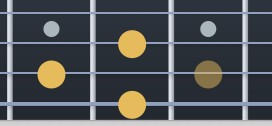
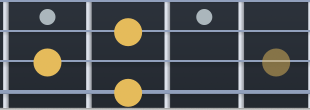
add

diff --git a/docs/chords.html b/docs/chords.html
@@ -155,6 +155,7 @@
 <li><a href="#%E4%B8%89%E5%92%8C%E5%BC%A6">三和弦</a></li>
 <li><a href="#%E5%85%AD%E5%92%8C%E5%BC%A6">六和弦</a></li>
 <li><a href="#%E6%8C%82%E7%95%99%E5%92%8C%E5%BC%A6">挂留和弦</a></li>
+<li><a href="#%E5%B0%8F%E4%B8%83%E5%92%8C%E5%BC%A6">小七和弦</a></li>
 <li><a href="#%E5%B1%9E%E4%B8%83%E5%92%8C%E5%BC%A6">属七和弦</a></li>
 <li><a href="#%E5%B0%8F%E8%B0%83%E4%B8%AD%E7%9A%84%E4%B8%83%E5%92%8C%E5%BC%A6">小调中的七和弦</a></li>
 </ul>
@@ -557,11 +558,17 @@
 </tr>
 </tbody>
 </table>
-<h4 id="属七和弦"><a class="anchorlink" href="#%E5%B1%9E%E4%B8%83%E5%92%8C%E5%BC%A6">2.4 属七和弦</a></h4>
+<h4 id="小七和弦"><a class="anchorlink" href="#%E5%B0%8F%E4%B8%83%E5%92%8C%E5%BC%A6">2.4 小七和弦</a></h4><h5 id="小七和弦-组成"><a class="anchorlink" href="#%E5%B0%8F%E4%B8%83%E5%92%8C%E5%BC%A6-%E7%BB%84%E6%88%90">2.4.1 组成</a></h5><div class="code_container">
+<pre class="brush: plain; gutter: false; toolbar: true;">
+根音 小三度 纯五度 小七度
+
+</pre>
+</div>
+<p>根音在6弦</p><p><img src="./images/Cm7-6R.png" alt="Cm7-6R"></p><p><img src="./images/Cm7-6R-1.png" alt="Cm7-6R-1"></p><p>根音在5弦，形状同6弦</p><p>根音在4弦</p><p><img src="./images/Cm7-4R.png" alt="Cm7-4R"></p><p><img src="./images/Cm7-4R-1.png" alt="Cm7-4R-1"></p><p>根音在3弦</p><p><img src="./images/Cm7-3R.png" alt="Cm7-3R"></p><p><img src="./images/Cm7-3R-1.png" alt="Cm7-3R-1"></p><h4 id="属七和弦"><a class="anchorlink" href="#%E5%B1%9E%E4%B8%83%E5%92%8C%E5%BC%A6">2.5 属七和弦</a></h4>
 <blockquote>
 <p>属七和弦（dominant seventh chord），又称：大小七和弦（major minor seventh chord）是一组由根音，大三度，纯五度，和小七度构成的和弦</p>
 </blockquote>
-<h5 id="组成"><a class="anchorlink" href="#%E7%BB%84%E6%88%90">2.4.1 组成</a></h5><div class="code_container">
+<h5 id="属七和弦-组成"><a class="anchorlink" href="#%E5%B1%9E%E4%B8%83%E5%92%8C%E5%BC%A6-%E7%BB%84%E6%88%90">2.5.1 组成</a></h5><div class="code_container">
 <pre class="brush: plain; gutter: false; toolbar: true;">
 根音 大三度 纯五度 小七度
 
@@ -664,7 +671,7 @@
 </tr>
 </tbody>
 </table>
-<p>根音在6弦</p><p><img src="./images/C7-6R.png" alt="C7-6R"></p><p>根音在5弦</p><p><img src="./images/C7-5R.png" alt="C7-5R"></p><p>根音在4弦</p><p><img src="./images/C7-4R.png" alt="C7-4R"></p><p>根音在3弦</p><p><img src="./images/C7-3R.png" alt="C7-3R"></p><h5 id="排列"><a class="anchorlink" href="#%E6%8E%92%E5%88%97">2.4.2 排列</a></h5><h6 id="c调"><a class="anchorlink" href="#c%E8%B0%83">2.4.2.1 C调</a></h6><p>基本排列</p><div class="code_container">
+<p>根音在6弦</p><p><img src="./images/C7-6R.png" alt="C7-6R"></p><p><img src="./images/C7-6R-1.png" alt="C7-6R-1"></p><p>根音在5弦，形状同6弦</p><p>根音在4弦</p><p><img src="./images/C7-4R.png" alt="C7-4R"></p><p><img src="./images/C7-4R-1.png" alt="C7-4R-1"></p><p>根音在3弦</p><p><img src="./images/C7-3R.png" alt="C7-3R"></p><p><img src="./images/C7-3R-1.png" alt="C7-3R-1"></p><h5 id="排列"><a class="anchorlink" href="#%E6%8E%92%E5%88%97">2.5.2 排列</a></h5><h6 id="c调"><a class="anchorlink" href="#c%E8%B0%83">2.5.2.1 C调</a></h6><p>基本排列</p><div class="code_container">
 <pre class="brush: plain; gutter: false; toolbar: true;">
 1 3 5 b7
 1 3 b7 5
@@ -693,7 +700,7 @@
 
 </pre>
 </div>
-<h6 id="d调"><a class="anchorlink" href="#d%E8%B0%83">2.4.2.2 D调</a></h6><p>基本排列</p><div class="code_container">
+<h6 id="d调"><a class="anchorlink" href="#d%E8%B0%83">2.5.2.2 D调</a></h6><p>基本排列</p><div class="code_container">
 <pre class="brush: plain; gutter: false; toolbar: true;">
 2 #4 6 1
 2 #4 1 6
@@ -722,7 +729,7 @@
 
 </pre>
 </div>
-<h6 id="e调"><a class="anchorlink" href="#e%E8%B0%83">2.4.2.3 E调</a></h6><p>基本排列</p><div class="code_container">
+<h6 id="e调"><a class="anchorlink" href="#e%E8%B0%83">2.5.2.3 E调</a></h6><p>基本排列</p><div class="code_container">
 <pre class="brush: plain; gutter: false; toolbar: true;">
 3 #5 7 2
 3 #5 2 7
@@ -751,7 +758,7 @@
 
 </pre>
 </div>
-<h6 id="f调"><a class="anchorlink" href="#f%E8%B0%83">2.4.2.4 F调</a></h6><p>基本排列</p><div class="code_container">
+<h6 id="f调"><a class="anchorlink" href="#f%E8%B0%83">2.5.2.4 F调</a></h6><p>基本排列</p><div class="code_container">
 <pre class="brush: plain; gutter: false; toolbar: true;">
 4 6 1 b3
 4 6 b3 1
@@ -780,7 +787,7 @@
 
 </pre>
 </div>
-<h6 id="g调"><a class="anchorlink" href="#g%E8%B0%83">2.4.2.5 G调</a></h6><p>基本排列</p><div class="code_container">
+<h6 id="g调"><a class="anchorlink" href="#g%E8%B0%83">2.5.2.5 G调</a></h6><p>基本排列</p><div class="code_container">
 <pre class="brush: plain; gutter: false; toolbar: true;">
 5 7 2 4
 5 7 4 2
@@ -809,7 +816,7 @@
 
 </pre>
 </div>
-<h6 id="a调"><a class="anchorlink" href="#a%E8%B0%83">2.4.2.6 A调</a></h6><p>基本排列</p><div class="code_container">
+<h6 id="a调"><a class="anchorlink" href="#a%E8%B0%83">2.5.2.6 A调</a></h6><p>基本排列</p><div class="code_container">
 <pre class="brush: plain; gutter: false; toolbar: true;">
 6 #1 3 5
 6 #1 5 3
@@ -838,7 +845,7 @@
 
 </pre>
 </div>
-<h6 id="b调"><a class="anchorlink" href="#b%E8%B0%83">2.4.2.7 B调</a></h6><p>基本排列</p><div class="code_container">
+<h6 id="b调"><a class="anchorlink" href="#b%E8%B0%83">2.5.2.7 B调</a></h6><p>基本排列</p><div class="code_container">
 <pre class="brush: plain; gutter: false; toolbar: true;">
 7 #2 #4 6
 7 #2 6 #4
@@ -867,7 +874,7 @@
 
 </pre>
 </div>
-<h5 id="应用实例"><a class="anchorlink" href="#%E5%BA%94%E7%94%A8%E5%AE%9E%E4%BE%8B">2.4.3 应用实例</a></h5>
+<h5 id="应用实例"><a class="anchorlink" href="#%E5%BA%94%E7%94%A8%E5%AE%9E%E4%BE%8B">2.5.3 应用实例</a></h5>
 <ul>
 <li><p><a href="http://www.ultimate-guitar.com/search.php?search_type=title&amp;value=before+you+accuse+me">Before You Accuse Me</a></p></li>
 <li><p><a href="http://www.ultimate-guitar.com/search.php?search_type=title&amp;value=take+five">Take Five</a></p></li>
@@ -881,7 +888,7 @@ Em -&gt; Bm7
 
 </pre>
 </div>
-<h4 id="小调中的七和弦"><a class="anchorlink" href="#%E5%B0%8F%E8%B0%83%E4%B8%AD%E7%9A%84%E4%B8%83%E5%92%8C%E5%BC%A6">2.5 小调中的七和弦</a></h4><h5 id="自然-小调音阶"><a class="anchorlink" href="#%E8%87%AA%E7%84%B6-%E5%B0%8F%E8%B0%83%E9%9F%B3%E9%98%B6">2.5.1 (自然)小调音阶</a></h5>
+<h4 id="小调中的七和弦"><a class="anchorlink" href="#%E5%B0%8F%E8%B0%83%E4%B8%AD%E7%9A%84%E4%B8%83%E5%92%8C%E5%BC%A6">2.6 小调中的七和弦</a></h4><h5 id="自然-小调音阶"><a class="anchorlink" href="#%E8%87%AA%E7%84%B6-%E5%B0%8F%E8%B0%83%E9%9F%B3%E9%98%B6">2.6.1 (自然)小调音阶</a></h5>
 <blockquote>
 <p>由自然音级所组成的小调音阶, 叫做"自然小调音阶". 结构为：全音、半音、全音、全音、半音、全音、全音, 任何能构成这种结构的音阶都是自然小调.</p>
 </blockquote>
@@ -892,7 +899,7 @@ Em -&gt; Bm7
 
 </pre>
 </div>
-<h5 id="各个调的小调音阶"><a class="anchorlink" href="#%E5%90%84%E4%B8%AA%E8%B0%83%E7%9A%84%E5%B0%8F%E8%B0%83%E9%9F%B3%E9%98%B6">2.5.2 各个调的小调音阶</a></h5>
+<h5 id="各个调的小调音阶"><a class="anchorlink" href="#%E5%90%84%E4%B8%AA%E8%B0%83%E7%9A%84%E5%B0%8F%E8%B0%83%E9%9F%B3%E9%98%B6">2.6.2 各个调的小调音阶</a></h5>
 <table>
 <thead>
 <tr>
@@ -931,7 +938,7 @@ Em -&gt; Bm7
 </tr>
 </tbody>
 </table>
-<h5 id="七和弦"><a class="anchorlink" href="#%E4%B8%83%E5%92%8C%E5%BC%A6">2.5.3 七和弦</a></h5><p>七度音程</p>
+<h5 id="七和弦"><a class="anchorlink" href="#%E4%B8%83%E5%92%8C%E5%BC%A6">2.6.3 七和弦</a></h5><p>七度音程</p>
 <ul>
 <li>大七度 音数: 11, C-B</li>
 <li>小七度 音数: 10, C-bB; G-F</li>
@@ -975,7 +982,7 @@ Em -&gt; Bm7
 </tr>
 </tbody>
 </table>
-<p>其他的还有 Half-diminished seventh, Minor major seventh, Augmented major seventh 等</p><h5 id="组成音分析"><a class="anchorlink" href="#%E7%BB%84%E6%88%90%E9%9F%B3%E5%88%86%E6%9E%90">2.5.4 组成音分析</a></h5><h6 id="c小调"><a class="anchorlink" href="#c%E5%B0%8F%E8%B0%83">2.5.4.1 C小调</a></h6><div class="code_container">
+<p>其他的还有 Half-diminished seventh, Minor major seventh, Augmented major seventh 等</p><h5 id="组成音分析"><a class="anchorlink" href="#%E7%BB%84%E6%88%90%E9%9F%B3%E5%88%86%E6%9E%90">2.6.4 组成音分析</a></h5><h6 id="c小调"><a class="anchorlink" href="#c%E5%B0%8F%E8%B0%83">2.6.4.1 C小调</a></h6><div class="code_container">
 <pre class="brush: plain; gutter: false; toolbar: true;">
 1 2 b3 4 5 b6 b7 1
 
@@ -1020,7 +1027,7 @@ Em -&gt; Bm7
 </tr>
 </tbody>
 </table>
-<h6 id="d小调"><a class="anchorlink" href="#d%E5%B0%8F%E8%B0%83">2.5.4.2 D小调</a></h6><div class="code_container">
+<h6 id="d小调"><a class="anchorlink" href="#d%E5%B0%8F%E8%B0%83">2.6.4.2 D小调</a></h6><div class="code_container">
 <pre class="brush: plain; gutter: false; toolbar: true;">
 2 3 4 5 6 b7 1 2
 
@@ -1065,7 +1072,7 @@ Em -&gt; Bm7
 </tr>
 </tbody>
 </table>
-<h6 id="e小调"><a class="anchorlink" href="#e%E5%B0%8F%E8%B0%83">2.5.4.3 E小调</a></h6><div class="code_container">
+<h6 id="e小调"><a class="anchorlink" href="#e%E5%B0%8F%E8%B0%83">2.6.4.3 E小调</a></h6><div class="code_container">
 <pre class="brush: plain; gutter: false; toolbar: true;">
 3 #4 5 6 7 1 2 3
 
@@ -1110,7 +1117,7 @@ Em -&gt; Bm7
 </tr>
 </tbody>
 </table>
-<h6 id="f小调"><a class="anchorlink" href="#f%E5%B0%8F%E8%B0%83">2.5.4.4 F小调</a></h6><div class="code_container">
+<h6 id="f小调"><a class="anchorlink" href="#f%E5%B0%8F%E8%B0%83">2.6.4.4 F小调</a></h6><div class="code_container">
 <pre class="brush: plain; gutter: false; toolbar: true;">
 4 5 b6 b7 1 b2 b3 4
 
@@ -1155,7 +1162,7 @@ Em -&gt; Bm7
 </tr>
 </tbody>
 </table>
-<h6 id="g小调"><a class="anchorlink" href="#g%E5%B0%8F%E8%B0%83">2.5.4.5 G小调</a></h6><div class="code_container">
+<h6 id="g小调"><a class="anchorlink" href="#g%E5%B0%8F%E8%B0%83">2.6.4.5 G小调</a></h6><div class="code_container">
 <pre class="brush: plain; gutter: false; toolbar: true;">
 5 6 b7 1 2 b3 4 5
 
@@ -1200,7 +1207,7 @@ Em -&gt; Bm7
 </tr>
 </tbody>
 </table>
-<h6 id="a小调"><a class="anchorlink" href="#a%E5%B0%8F%E8%B0%83">2.5.4.6 A小调</a></h6><div class="code_container">
+<h6 id="a小调"><a class="anchorlink" href="#a%E5%B0%8F%E8%B0%83">2.6.4.6 A小调</a></h6><div class="code_container">
 <pre class="brush: plain; gutter: false; toolbar: true;">
 6 7 1 2 3 4 5 6
 
@@ -1245,7 +1252,7 @@ Em -&gt; Bm7
 </tr>
 </tbody>
 </table>
-<h6 id="b小调"><a class="anchorlink" href="#b%E5%B0%8F%E8%B0%83">2.5.4.7 B小调</a></h6><div class="code_container">
+<h6 id="b小调"><a class="anchorlink" href="#b%E5%B0%8F%E8%B0%83">2.6.4.7 B小调</a></h6><div class="code_container">
 <pre class="brush: plain; gutter: false; toolbar: true;">
 7 #1 2 3 #4 5 6 7
 

diff --git a/docs/interview_plan-4.html b/docs/interview_plan-4.html
@@ -6,7 +6,7 @@
 <meta name="viewport" content="width=device-width, initial-scale=1"/>
 <meta name="baidu-site-verification" content="N1Q3HiESgp" />
 
-<title>Interview Plan 4 — dengqinghua&#39;s blog</title>
+<title>Interview Plan 3 — dengqinghua&#39;s blog</title>
   <link rel="stylesheet" type="text/css" href="stylesheets/style.css" />
   <link rel="stylesheet" type="text/css" href="stylesheets/print.css" media="print" />
   <link rel="stylesheet" type="text/css" href="stylesheets/syntaxhighlighter/shCore.css" />
@@ -137,7 +137,7 @@
 
   <div id="feature">
     <div class="wrapper">
-      <h2>Interview Plan 4</h2><p>Prepare for my next job interview as a programmer dog the second time.</p><p>After reading this guide, you will know:</p>
+      <h2>Interview Plan 3</h2><p>Prepare for my next job interview as a programmer dog the second time.</p><p>After reading this guide, you will know:</p>
 <ul>
 <li>Books to read</li>
 <li>Blogs to write</li>

diff --git a/source/chords.md b/source/chords.md
@@ -142,6 +142,35 @@
 | B   | 7-#2-#4 | 7-#1-#4 | 7-#3-#4  |
 |     | B-#D-#F | B-#C-#F | B-#E-#F  |
 
+### 小七和弦
+
+#### 组成
+
+```
+根音 小三度 纯五度 小七度
+```
+
+根音在6弦
+
+![Cm7-6R](./images/Cm7-6R.png)
+
+![Cm7-6R-1](./images/Cm7-6R-1.png)
+
+根音在5弦，形状同6弦
+
+根音在4弦
+
+![Cm7-4R](./images/Cm7-4R.png)
+
+![Cm7-4R-1](./images/Cm7-4R-1.png)
+
+根音在3弦
+
+![Cm7-3R](./images/Cm7-3R.png)
+
+![Cm7-3R-1](./images/Cm7-3R-1.png)
+
+
 ### 属七和弦
 
 > 属七和弦（dominant seventh chord），又称：大小七和弦（major minor seventh chord）是一组由根音，大三度，纯五度，和小七度构成的和弦
@@ -173,17 +202,21 @@
 
 ![C7-6R](./images/C7-6R.png)
 
-根音在5弦
+![C7-6R-1](./images/C7-6R-1.png)
 
-![C7-5R](./images/C7-5R.png)
+根音在5弦，形状同6弦
 
 根音在4弦
 
 ![C7-4R](./images/C7-4R.png)
 
+![C7-4R-1](./images/C7-4R-1.png)
+
 根音在3弦
 
 ![C7-3R](./images/C7-3R.png)
+
+![C7-3R-1](./images/C7-3R-1.png)
 
 #### 排列
 ##### C调
